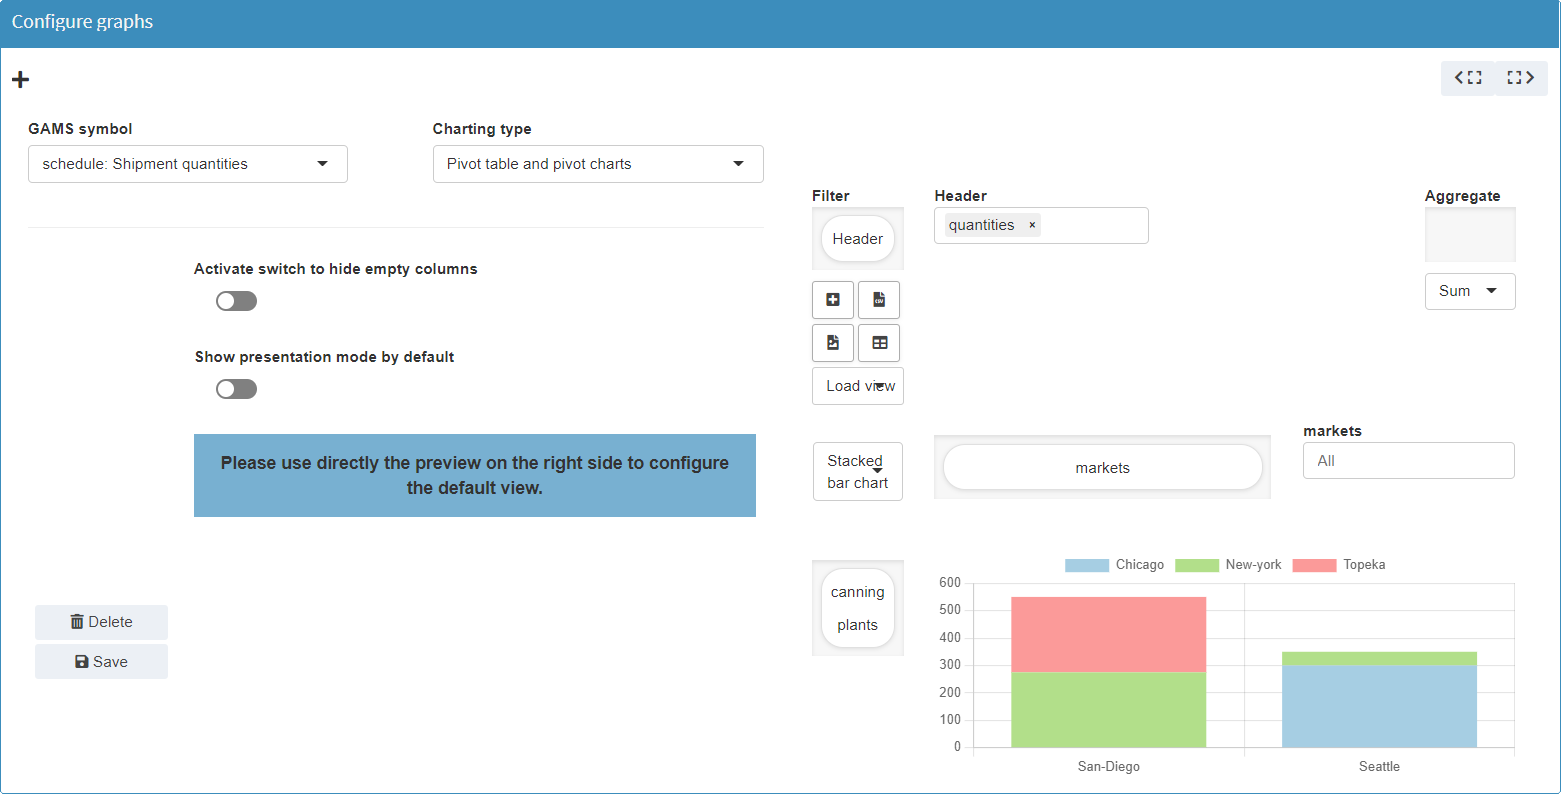
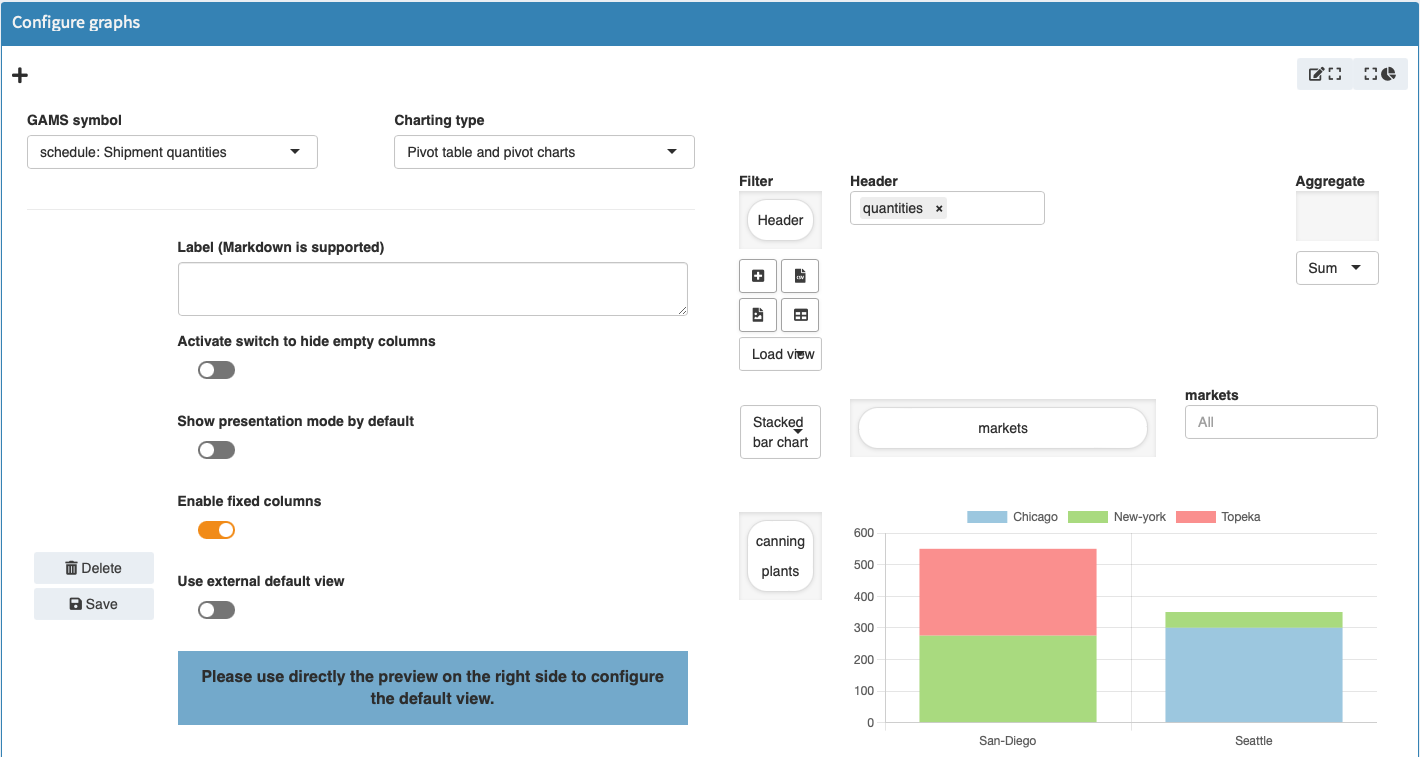
[Config Mode] Support external default view (MIRO Pivot)

diff --git a/doc/charts.html b/doc/charts.html
@@ -1626,6 +1626,14 @@ dowVSindex(d,'index fund')     = fund(d);
                       reason, this option is automatically disabled for screens
                       less than 768 pixels wide.
                     </p>
+                    <p id="external-default-view">
+                      <b>Use external default view:</b><br />
+                      If this option is enabled, a scenario-specific or global
+                      <a href="./start.html#metadata-views">view</a> is used as
+                      the default view for this symbol. If the specified view
+                      does not exist, the default configuration for this symbol
+                      is used.
+                    </p>
                   </div>
                   <!--//section-block-->
                 </section>
